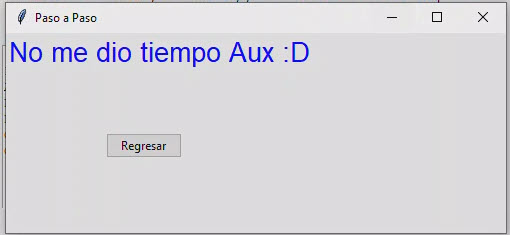
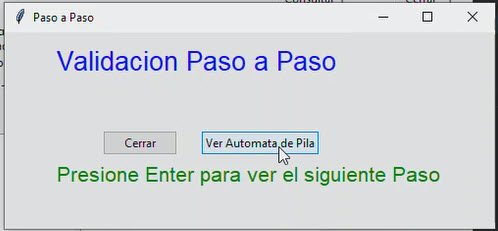
8vo commit, actualizando funcionesAP.py,agregando funcion paso a paso

diff --git a/funcionesAP.py b/funcionesAP.py
@@ -1,6 +1,7 @@
 import tkinter as tk
 from tkinter import ttk
 import graphviz
+import keyboard
 from tkinter import filedialog
 from tkinter import messagebox
 from reportlab.platypus import SimpleDocTemplate, Table
@@ -268,13 +269,52 @@ def validar_cadena_pila():  #Permite validar si una cadena ingresada es aceptada
                     nueva_ventana = tk.Toplevel()
                     nueva_ventana.title("Paso a Paso")
                     nueva_ventana.geometry("500x200")
-                    label = tk.Label(nueva_ventana, text="No me dio tiempo Aux :D",foreground="blue",font=("Arial", 20))
-                    label.grid(sticky="nsew")           
+                    labelp = tk.Label(nueva_ventana, text="Validacion Paso a Paso",foreground="blue",font=("Arial", 20))
+                    labelp.place(x=50,y=10)    
+                    labelinfo = tk.Label(nueva_ventana, text="Presione Enter para ver el siguiente Paso",foreground="green",font=("Arial", 16))
+                    labelinfo.place(x=50,y=130)      
+
+                    #----------------------------------------------------------------              
+                        # llamar funcion para ver grafo paso a paso   
+             
                     
+                    def generar_grafo_AP():
+                        grafo = graphviz.Digraph()                  # Crear un objeto de gráfico dirigido   
+                        grafo.attr(rankdir='LR')       
+                        
+                        def pausar_ciclo():
+                            
+                            keyboard.wait('enter')  # Espera hasta que se presione la tecla "Enter"
+                              
+                        for cadena in AP_seleccionado.transiciones:
+                            v_coma = cadena.split(',')
+                            # estado Inicial = v_coma[0]
+                            # en pila = v_coma[1]
+                            v_pc = v_coma[2].split(';')
+                            # sale de pila = v_pc[0]
+                            # estado transicion = v_pc[1]
+                            # mete a pila = v_coma[3]
+
+                            A=v_coma[0]                                 # Asigna estado inicial               
+                            grafo.node(str(A), fillcolor="green")       # Genera nodo
+                            mov=(v_coma[1]+","+v_pc[0]+";"+v_coma[3])   # Genera transicion
+                            B=v_pc[1]                                   # Asigna Nodo destino
+                            grafo.node(str(B), fillcolor="yellow")                          # Genera nodo
+                            grafo.edge(A, B, label=mov)                 # Agregar una flecha de transición con etiqueta        
+                            
+                            grafo.render('grafoPaP', format='png', view=True)   # Renderizar y muestra el gráfico en pantalla
+                            pausar_ciclo()
+
+
+                    #----------------------------------------------------------------
+                
+                    boton_cerrar = ttk.Button(nueva_ventana, text="Cerrar", command=nueva_ventana.destroy)   # Agrega un botón de regresar
+                    boton_cerrar.place(x=100,y=100)  
+                    boton_pap = ttk.Button(nueva_ventana, text="Ver Automata de Pila", command=generar_grafo_AP)   # ver el grafo paso a paso
+                    boton_pap.place(x=200,y=100)  
+
+                
                     
-                    boton_regresar = ttk.Button(nueva_ventana, text="Regresar", command=nueva_ventana.destroy)   # Agrega un botón de regresar
-                    boton_regresar.place(x=100,y=100)  
-   
                 def una_pasada():
                     tabla = ttk.Treeview(ventana)
                     

diff --git a/manejaAP.py b/manejaAP.py
@@ -12,7 +12,7 @@ class AutomataPila:
 
         
     def transicion(self, simbolo_entrada,ruta,tabla_una_pasada,i):
-        print ("i-> ",i)
+        
         for funcion in self.funciones_transicion:
             estado_actual, simbolo_lectura, simbolo_pila_lectura, estado_siguiente, simbolos_a_apilar = funcion                      
             if (estado_actual == self.estado_actual and simbolo_lectura == 'ε' and simbolo_pila_lectura == 'ε'):
@@ -115,97 +115,3 @@ def validar_cadena(Ap_seleccionado,cadena,ruta,aceptada,tabla_una_pasada): #Vali
     else:
         aceptada=False
         return aceptada 
-
-
-
-
-
-
-
-
-
-
-
-
-
-
-
-
-
-
-
-
-
-
-
-
-
-
-
-
-
-
-
-
-""" 
-class AutomataPila:
-    def __init__(self, estados, alfabeto_entrada, alfabeto_pila, estado_inicial, estado_final, funciones_transicion):
-        self.estados = estados
-        self.alfabeto_entrada = alfabeto_entrada
-        self.alfabeto_pila = alfabeto_pila
-        self.estado_inicial = estado_inicial
-        self.estado_final = estado_final
-        self.funciones_transicion = funciones_transicion
-        self.pila = []
-        self.estado_actual = estado_inicial
-
-    def transicion(self, simbolo_entrada):
-        for funcion in self.funciones_transicion:
-            estado_actual, simbolo_lectura, simbolo_pila_lectura, estado_siguiente, simbolos_a_apilar = funcion
-            if (
-                estado_actual == self.estado_actual
-                and simbolo_lectura == simbolo_entrada
-                and (simbolo_pila_lectura == self.pila[-1] or simbolo_pila_lectura == 'ε')
-            ):
-                self.estado_actual = estado_siguiente
-                self.pila.pop()
-                if simbolos_a_apilar != 'ε':
-                    for simbolo in reversed(simbolos_a_apilar):
-                        self.pila.append(simbolo)
-                break
-
-    def acepta_cadena(self, cadena):
-        self.estado_actual = self.estado_inicial
-        self.pila = ['#']
-        for simbolo in cadena:
-            if simbolo not in self.alfabeto_entrada:
-                return False
-            self.transicion(simbolo)
-        return self.estado_actual == self.estado_final and self.pila == ['#']
-
-
-# Datos del autómata de pila
-alfabeto_entrada = ['a', 'b']
-alfabeto_pila = ['a', 'b', '#']
-estados = ['I', 'A', 'B', 'C', 'F']
-estado_inicial = 'I'
-estado_final = 'F'
-funciones_transicion = [
-    ['I', 'ε', 'ε', 'A', '#'],
-    ['A', 'a', 'ε', 'B', 'a'],
-    ['B', 'a', 'ε', 'B', 'a'],
-    ['B', 'b', 'a', 'C', 'ε'],
-    ['C', 'b', 'a', 'C', 'ε'],
-    ['C', 'ε', '#', 'F', 'ε']
-]
-
-# Crear instancia del autómata de pila
-automata = AutomataPila(estados, alfabeto_entrada, alfabeto_pila, estado_inicial, estado_final, funciones_transicion)
-
-# Prueba de cadenas
-cadenas = ['ab', 'abb', 'abba', 'aabb', 'aabba']
-for cadena in cadenas:
-    if automata.acepta_cadena(cadena):
-        print(f"Cadena '{cadena}': Aceptada")
-    else:
-        print(f"Cadena '{cadena}': Rechazada")""" 

diff --git a/manual_usuario.md b/manual_usuario.md
@@ -109,7 +109,33 @@ Se puede verificar la ruta paso a paso
 
 ![Texto](Imagenes/U23.jpg)
 
-se puede verificar la ruta de una sola pasada 
+Al presionar el boton Ver Automata de Pila se muestra el primer movimiento
+
+![Texto](Imagenes/U23-1.jpg)
+
+Al presionar Enter se van mostrando los siguientes movimientos
+
+Segundo mvimiento
+
+![Texto](Imagenes/U23-2.jpg)
+
+Tercer movimiento
+
+![Texto](Imagenes/U23-3.jpg)
+
+Cuarto movimiento
+
+![Texto](Imagenes/U23-4.jpg)
+
+Quinto movimiento
+
+![Texto](Imagenes/U23-5.jpg)
+
+Sexto movimiento
+
+![Texto](Imagenes/U23-6.jpg)
+
+Se puede verificar la ruta de una sola pasada 
 
 ![Texto](Imagenes/U24.jpg)
 
@@ -134,7 +160,7 @@ Al finalizar la aplicacion en la opcion salir del menu principal muestra una pan
 
 ---
 
-### Funcionalidad 👾 
+### Funcionalidad 👾 al 98%
 
 ---
 ## Repositorio del proyecto 

diff --git a/manual_tecnico.md b/manual_tecnico.md
@@ -28,13 +28,13 @@
 * [x] informacion pila 
 * [x] Validar cadena pila
 * [x] Ruta_de validacion de cadena
-* [ ] Mostrar recorido paso a paso
-* [x] Validar cadena en una sola pasada
+* [x] Mostrar recorido paso a paso
+* [ ] Validar cadena en una sola pasada   🦾😮💨en construccion
 * [x] Desplegar manual de Usuario en Markdown
 * [x] Desplegar manual tecnico en Markdown
 * [x] Pantalla de despedida al cerrar
 
-😮💨
+
 ---
 
 ### Funciones principalesdeclaradas 👾 

diff --git a/README.md b/README.md
@@ -27,8 +27,8 @@
 * [x] informacion pila 
 * [x] Validar cadena pila
 * [x] Ruta_de validacion de cadena
-* [ ] Mostrar recorido paso a paso
-* [ ] Validar cadena en una sola pasada
+* [x] Mostrar recorido paso a paso
+* [-] Validar cadena en una sola pasada
 * [x] Desplegar manual de Usuario en Markdown
 * [x] Desplegar manual tecnico en Markdown
 * [x] Pantalla de despedida al cerrar
